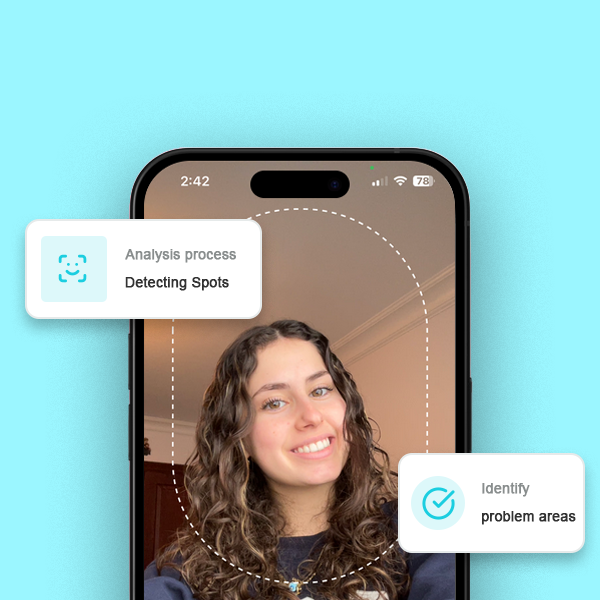
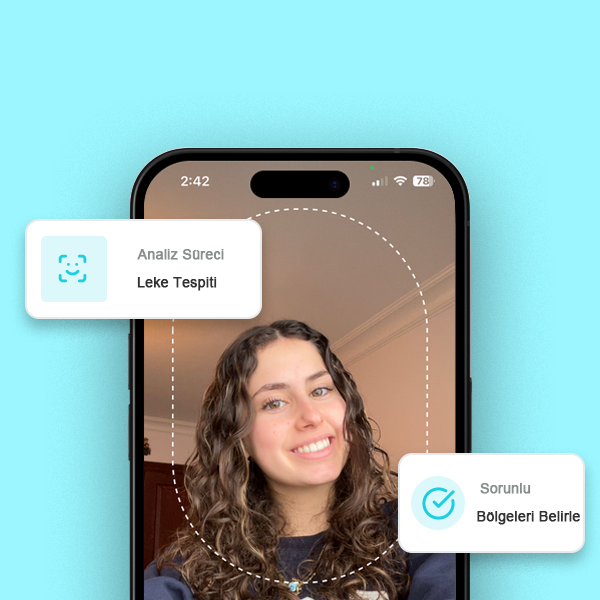
change images to turkish version

Changed region(s): [[0.21, 0.42, 0.39, 0.48], [0.78, 0.81, 0.96, 0.87]]

diff --git a/components/sections/hero-section.tsx b/components/sections/hero-section.tsx
@@ -1,19 +1,19 @@
 "use client"
 
 import { motion, type Variants, AnimatePresence } from "framer-motion"
-import { Sparkles, Star, Brain, Camera, ArrowRight } from "lucide-react"
-import { Badge } from "@/components/ui/badge"
+import Link from "next/link"
+import { Sparkles } from "lucide-react"
 import PhoneSlider from "@/components/phone-slider"
 import AnimatedCard from "@/components/animated-card"
 import AnimatedButton from "@/components/animated-button"
-import { fadeIn, staggerContainer, staggerItem } from "@/lib/variants"
+import { fadeIn, staggerContainer } from "@/lib/variants"
 import Image from "next/image"
 
 export default function HeroSection() {
   const fadeUpAnimation = fadeIn("up", 0.3) as Variants
   const fadeUpDelayedAnimation = fadeIn("up", 0.4) as Variants
   const staggerAnimation = staggerContainer(0.1, 1.2) as Variants
-  const itemAnimation = staggerItem() as Variants
+  // const itemAnimation = staggerItem() as Variants
 
   return (
     <AnimatePresence mode="wait">
@@ -66,7 +66,7 @@ className="absolute top-24  transform  translate-x-40 w-[350px] h-[450px] bg-gra
           {/* Left Floating Card - Cleanser */}
           <AnimatedCard delay={0.6} direction="left" className="absolute left-1/2 top-75 transform -translate-x-1/2 z-10 hidden md:block">
             <div className="bg-white rounded-2xl p-2 shadow-brand-lg max-w-xs -mr-20 ">
-            <Image src="/images/left-card-2.png" alt="Serum" width={203} height={350} />
+            <Image src="/images/card-left.png" alt="Serum" width={203} height={350} />
             </div>
           </AnimatedCard>
 
@@ -77,7 +77,7 @@ className="absolute top-24  transform  translate-x-40 w-[350px] h-[450px] bg-gra
             className="absolute right-1/2 top-75 transform translate-x-1/2 z-10 hidden md:block"
           >
             <div className="bg-white rounded-2xl p-2 shadow-brand-lg max-w-xs -ml-20">
-              <Image src="/images/card-right.png" alt="Serum" width={203} height={350} />
+              <Image src="/images/card-right-2.png" alt="Serum" width={203} height={350} />
             </div>
           </AnimatedCard>
 
@@ -95,24 +95,26 @@ className="absolute top-24  transform  translate-x-40 w-[350px] h-[450px] bg-gra
           whileInView="show"
           viewport={{ once: true }}
         >
-          {[
-            { icon: Brain, text: "AI Skin Analysis", bg: "bg-[#1E63A3]/10", text_color: "text-[#1E63A3]" },
-            { icon: Sparkles, text: "Personalized Routine", bg: "bg-[#1BCEE0]/10", text_color: "text-[#1BCEE0]" },
-            { icon: Camera, text: "Progress Tracking", bg: "bg-[#6B88EB]/10", text_color: "text-[#6B88EB]" },
-            { icon: Star, text: "Expert Recommendations", bg: "bg-[#C838F8]/10", text_color: "text-[#C838F8]" },
-            { icon: ArrowRight, text: "Real Results", bg: "bg-amber-500/10", text_color: "text-amber-500" },
-          ].map((badge) => (
-            <motion.div 
-              key={badge.text} 
-              variants={itemAnimation}
-              whileHover={{ scale: 1.05 }}
-            >
-              <Badge className={`${badge.bg} ${badge.text_color} px-6 py-2 rounded-full text-sm font-medium border-0`}>
-                <badge.icon className="w-4 h-4 mr-2" />
-                {badge.text}
-              </Badge>
-            </motion.div>
-          ))}
+         <div className="flex flex-wrap justify-center gap-4  px-4">
+          <Link href="/">
+          <Image
+                  src="/images/store-btn.svg"
+                  alt="Download on the App Store"
+                  className="h-14 w-auto"
+                  width={180}
+                  height={60}
+                />
+          </Link>
+          <Link href="/">
+          <Image
+                  src="/images/google-btn.svg"
+                  alt="Download on the App Store"
+                  className="h-14 w-auto"
+                  width={180}
+                  height={60}
+                />
+          </Link>
+         </div>
         </motion.div>
       </section>
     </AnimatePresence>

diff --git a/components/sections/dashboard-section.tsx b/components/sections/dashboard-section.tsx
@@ -6,10 +6,10 @@ import { fadeIn, staggerContainer, staggerItem } from "@/lib/variants"
 import Image from "next/image"
 
 const skinMetrics = [
-  { label: "Spots", score: 86, color: "#6b88eb", bgColor: "#e9edfc" },
-  { label: "Wrinkles", score: 45, color: "#8B5CF6", bgColor: "#F3E8FF" },
-  { label: "Pores", score: 64, color: "#FCD34D", bgColor: "#FEF3C7" },
-  { label: "Dark Circles", score: 88, color: "#10B981", bgColor: "#D1FAE5" },
+  { label: "Leke", score: 86, color: "#6b88eb", bgColor: "#e9edfc" },
+  { label: "Kırışıklık", score: 45, color: "#8B5CF6", bgColor: "#F3E8FF" },
+  { label: "Gözenek", score: 64, color: "#FCD34D", bgColor: "#FEF3C7" },
+  { label: "Göz Altı Morluğu", score: 88, color: "#10B981", bgColor: "#D1FAE5" },
 ]
 
 const suggestedProducts = [
@@ -29,11 +29,11 @@ export default function DashboardSection() {
             <motion.div variants={staggerItem()  as Variants}  className="grid grid-cols-2 gap-8">
               <div className="space-y-1 md:flex md:items-center md:gap-x-4">
                 <p className="text-4xl font-bold text-[#FF6B6B] font-sans">80</p>
-                <p className="text-lg text-[#323232]/60 font-sans">Skin Score</p>
+                <p className="text-lg text-[#323232]/60 font-sans">Cilt Skoru</p>
               </div>
               <div className="space-y-1 md:flex md:items-center md:gap-x-4">
                 <p className="text-4xl font-bold text-[#323232] font-sans">27</p>
-                <p className="text-lg text-[#323232]/60 font-sans">Skin Age</p>
+                <p className="text-lg text-[#323232]/60 font-sans">Cilt Yaşı</p>
               </div>
             </motion.div>
 
@@ -72,7 +72,7 @@ export default function DashboardSection() {
 
             {/* Suggested Products */}
             <motion.div variants={staggerItem() as Variants} className="space-y-4">
-              <h4 className="text-xl font-semibold text-[#323232] font-sans">Suggested Products</h4>
+              <h4 className="text-xl font-semibold text-[#323232] font-sans">Önerilen Ürünler</h4>
               <div className="grid grid-cols-3 gap-4">
                 {suggestedProducts.map((product, index) => (
                   <div

diff --git a/components/phone-slider.tsx b/components/phone-slider.tsx
@@ -7,17 +7,17 @@ import { motion } from "framer-motion"
 const slides = [
   {
     id: 1,
-    image: "/images/onboarding-1.png",
+    image: "/images/shot-1.png",
     alt: "AI Skin Analysis - Understand Your Skin",
   },
   {
     id: 2,
-    image: "/images/onboarding-2.png",
+    image: "/images/shot-2.png",
     alt: "Routine Recommendations - Personalized skincare routines",
   },
   {
     id: 3,
-    image: "/images/onboarding-3.png",
+    image: "/images/shot-3.png",
     alt: "Track Progress - Before and after results",
   },
 ]
@@ -50,10 +50,10 @@ export default function PhoneSlider() {
         <div
           className="absolute overflow-hidden rounded-[42px] bg-black"
           style={{
-            top: "5px",
-            left: "14px",
-            right: "14px",
-            bottom: "10px",
+            top: "20px",
+            left: "22px",
+            right: "22px",
+            bottom: "20px",
           }}
         >
           {/* Sliding Images - Improved without black screens */}
@@ -80,7 +80,7 @@ export default function PhoneSlider() {
                   src={slide.image || "/placeholder.svg"}
                   alt={slide.alt}
                   fill
-                  className="object-cover "
+                  className="object-contain "
                   priority={index === 0}
                 />
               </motion.div>
@@ -110,7 +110,7 @@ export default function PhoneSlider() {
       {/* Transparent Phone Frame Overlay */}
       <div className="absolute inset-0 z-20 pointer-events-none">
         <Image
-          src="/images/phone-frame-transparent.png"
+          src="/images/iphon-pro-max-frame.png"
           alt="iPhone Frame"
           fill
           className="object-contain drop-shadow-2xl"
